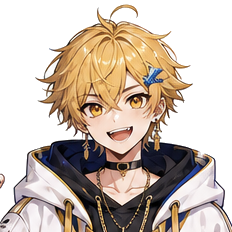
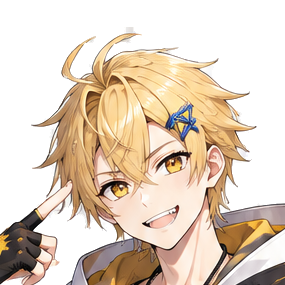
v0.8.1: arte nova dos personagens, e a abertura com o fundo da tela inicial
A tela de carregamento passou a usar o mesmo fundo da home (o `.menu-bg`), em vez
do degradê proprio que ela tinha.

A arte dos personagens foi trocada e mudou de forma: antes eram imagens estreitas
e justas (~1:3); agora vem numa tela fixa de 1024x1536 com o personagem no meio.
Isso quebrou o recorte do jeito que ele era, e o `prepare:characters` precisou
aprender tres coisas:

1. O fundo nao e' branco chapado: a arte vem **achatada sobre o quadriculado de
   transparencia** (dois cinzas neutros de 16px alternados). O recorte agora le'
   os dois tons da moldura e reconstroi a grade, aceitando so' quem bate com a
   cor que o fundo teria naquele ponto E tem vizinhanca lisa. Foi isso que parou
   de furar a camiseta branca do Tobi: quadrado de fundo e' chapado, roupa branca
   tem textura.
2. As areas de fundo cercadas pelo desenho (entre o braco e o corpo, entre as
   pernas) nao sao alcancadas por um preenchimento que vem da moldura, e com o
   quadriculado elas eram muitas demais para marcar a mao. Agora a semente vem da
   propria grade, e o que sobra pequeno e cercado e' descartado -- furar a roupa
   do personagem e' pior que deixar um quadrado.
3. Respingos: ilhas minusculas de desenho soltas no fundo (ruido do JPEG) e a
   aureola clara colada na silhueta saem em duas passadas de erosao.

A moldura transparente passou a ser aparada: a arte chega centralizada numa tela
fixa, e guardar a sobra faria o personagem aparecer menor e deslocado em toda
[…]

diff --git a/src/game/Opening.tsx b/src/game/Opening.tsx
@@ -95,7 +95,9 @@ export function OpeningView({ opening, mySeat = null }: { opening: Opening; mySe
 
   return (
     <div className="screen pm-screen">
-      {/* o que cai na tela é do tema: pétalas no sakura, ornamentos no vitoriano */}
+      {/* mesmo fundo da tela inicial (e o que cai nela é do tema: pétalas no sakura,
+          ornamentos no vitoriano) */}
+      <div className="menu-bg" />
       <Petals />
 
       {/* sempre duas linhas: a mesa fica com a mesma cara com dois ou com seis, e ninguém precisa

diff --git a/src/styles/global.css b/src/styles/global.css
@@ -4943,8 +4943,7 @@ button.avatar {
   align-items: center;
   justify-content: center;
   gap: 12px;
-  /* o fundo é o do tema: é em relação a ele que o card clareia */
-  background: radial-gradient(ellipse at 50% 30%, var(--bg1) 0%, var(--bg0) 70%);
+  /* o fundo vem do .menu-bg, o mesmo da tela inicial */
 }
 .pm-rows {
   display: flex;
